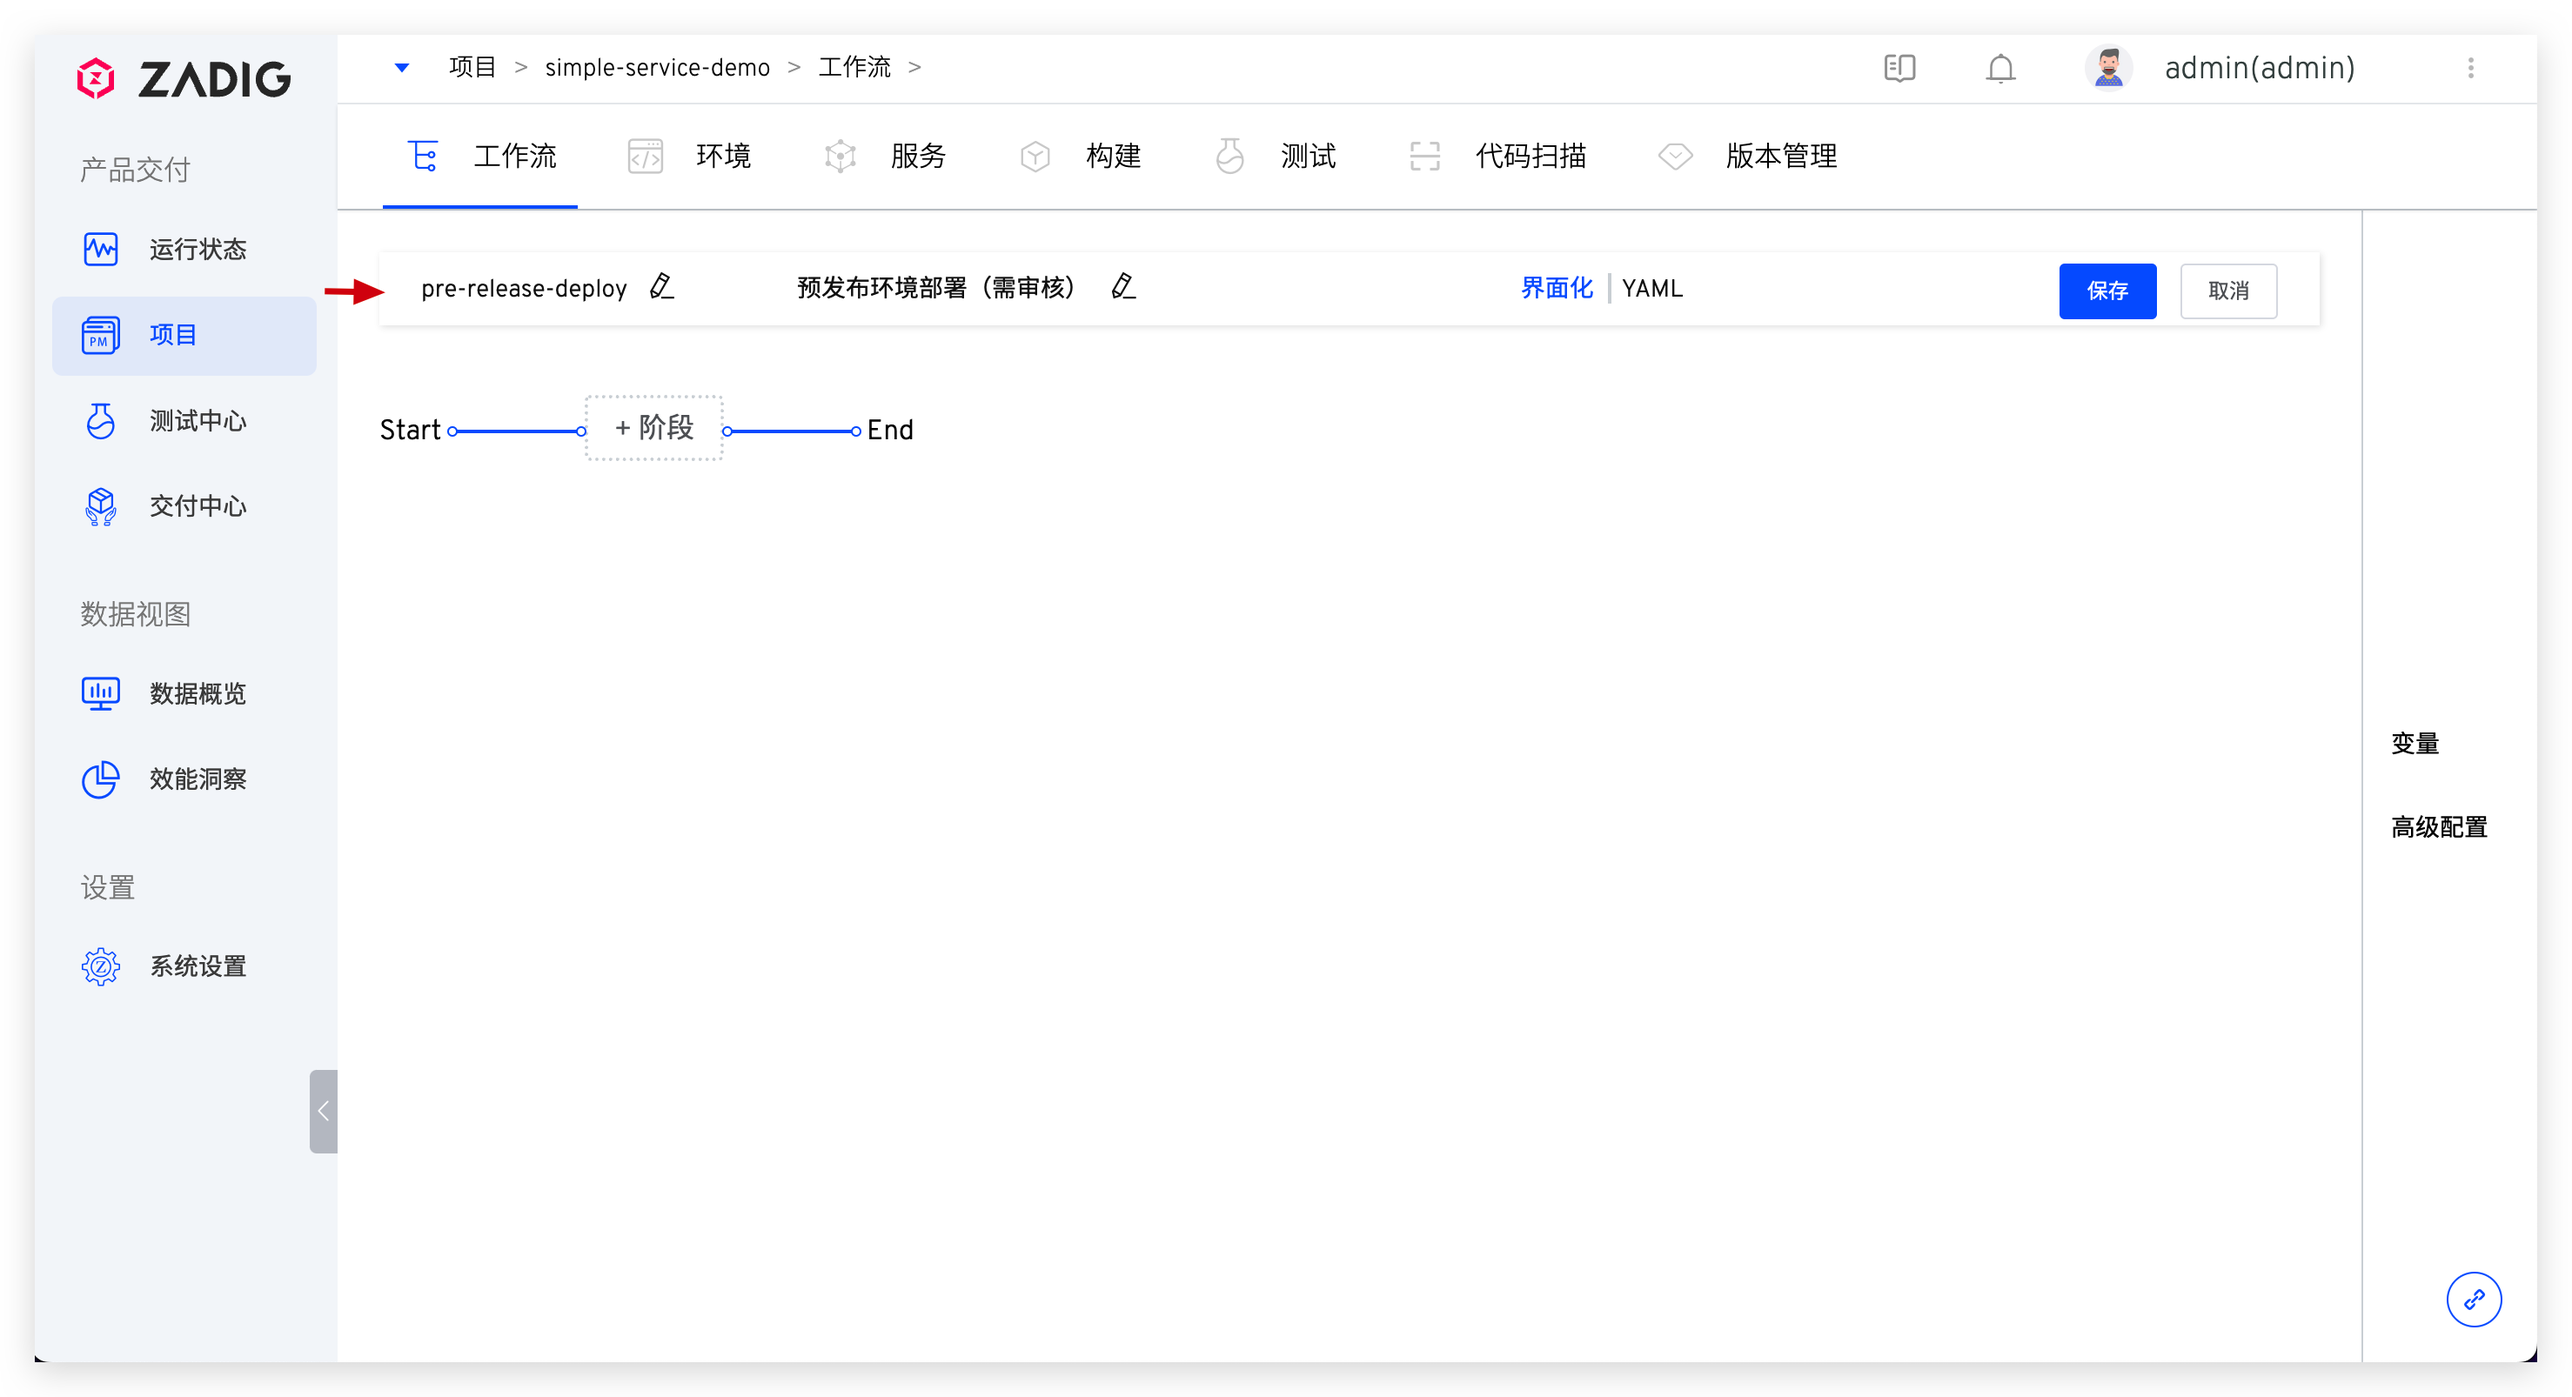
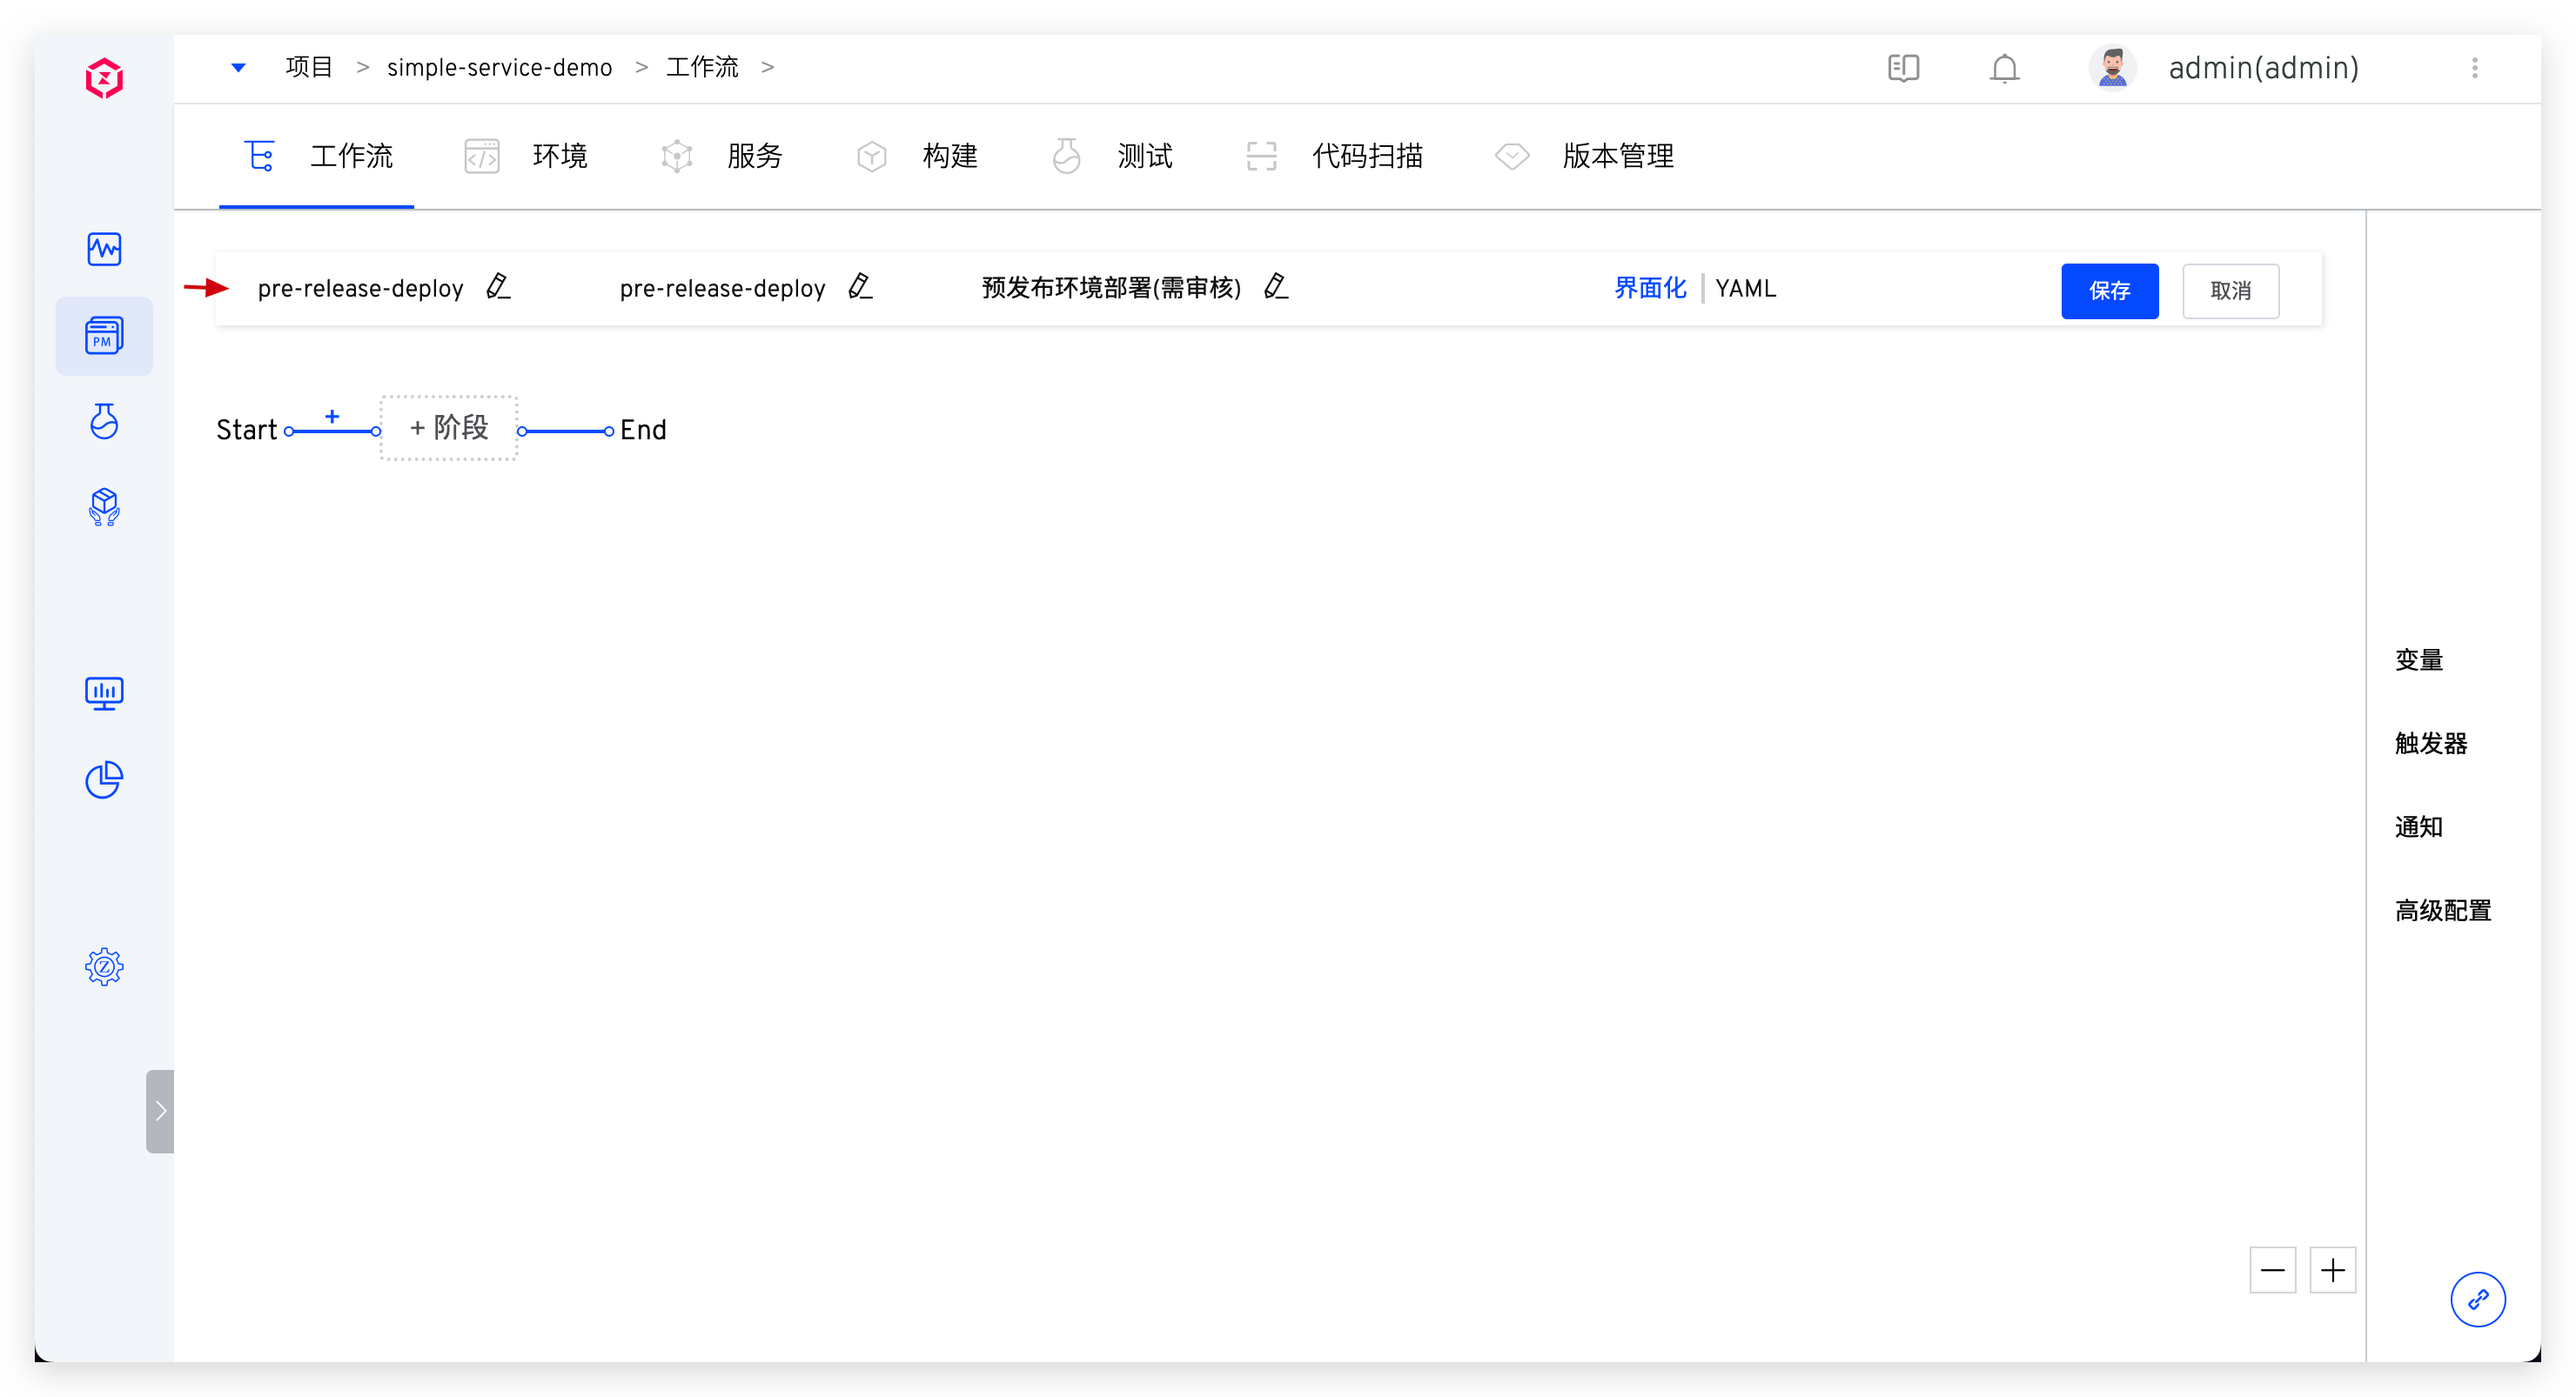
workflow name modification description

diff --git a/dev/04.项目/02.工作流/02.common_workflow.md b/dev/04.项目/02.工作流/02.common_workflow.md
@@ -24,7 +24,10 @@ permalink: /dev/project/common-workflow/
 
 ### 基本信息
 
-包括工作流名称和描述，同一项目下的工作流名称应唯一。
+包括工作流名称、标识和描述信息：
+- `工作流名称`：支持中文、大小写字母、数字及特殊字符，在所属项目中唯一，编辑工作流时可更改。
+- `工作流标识`：支持大小写字母、数字及中划线，在所属项目中唯一，编辑工作流时不可更改。
+- `描述`：描述该工作流的详细信息，在工作留详情页展示。
 
 ![common_workflow_config](../_images/common_workflow_config_0.png)
 
@@ -128,7 +131,8 @@ permalink: /dev/project/common-workflow/
 用 YAML 文件的方式定义工作流，YAML 内容的整体结构描述如下：
 
 ```
-name:「工作流名称」                // 必填项，全局唯一，匹配 ^[a-z0-9-]{1,32}$
+display_name:「工作流名称」        // 必填项，项目内唯一，支持中文、大小写字母、数字及特殊字符
+name:「工作流标识」                // 必填项，项目内唯一，支持大小写字母、数字及中划线
 stages:                          // 必填项，多个阶段将会按照先后顺序执行
   - 「阶段 1 的配置」
   - 「阶段 2 的配置」
@@ -217,6 +221,7 @@ spec:
 
 ```
 name: pre-release-deploy
+display_name: pre-release-deploy
 stages:
   - name: 构建
     parallel: true

diff --git a/dev/04.项目/02.工作流/01.workflow.md b/dev/04.项目/02.工作流/01.workflow.md
@@ -5,21 +5,22 @@ permalink: /dev/project/workflow/
 ---
 
 本文主要介绍 Zadig 的工作流的配置和使用。
+
 ## 配置工作流
 
 工作流支持多种策略组合，完成从`构建`->`部署`->`测试`->`分发`全流程的自动化编排，快速验证快速反馈，保证代码的质量。
 
 ### 基本信息
 
-> 包括工作流名称、所属项目、部署环境和描述等基础信息以及运行策略信息。
+> 包括工作流名称、工作流标识、部署环境和描述等基础信息以及运行策略信息。
 
 ![workflow](../_images/workflow.png)
 
 #### 基础信息
 
-- `工作流名称`：名称只支持字母大小写和数字，特殊字符只支持中划线。
-- `选择项目`：工作流所更新的项目名称，确定后不可更改。
-- `指定环境`：工作流部署更新的集成环境。
+- `工作流名称`：支持中文、大小写字母、数字及特殊字符，在所属项目中唯一，编辑工作流时可更改。
+- `工作流标识`：支持大小写字母、数字及中划线，在所属项目中唯一，编辑工作流时不可更改。
+- `指定环境`：工作流部署更新的集成环境，编辑工作流时可更改。
 - `描述`：描述该工作流的详细信息，在工作留详情页展示。
 
 #### 运行策略
